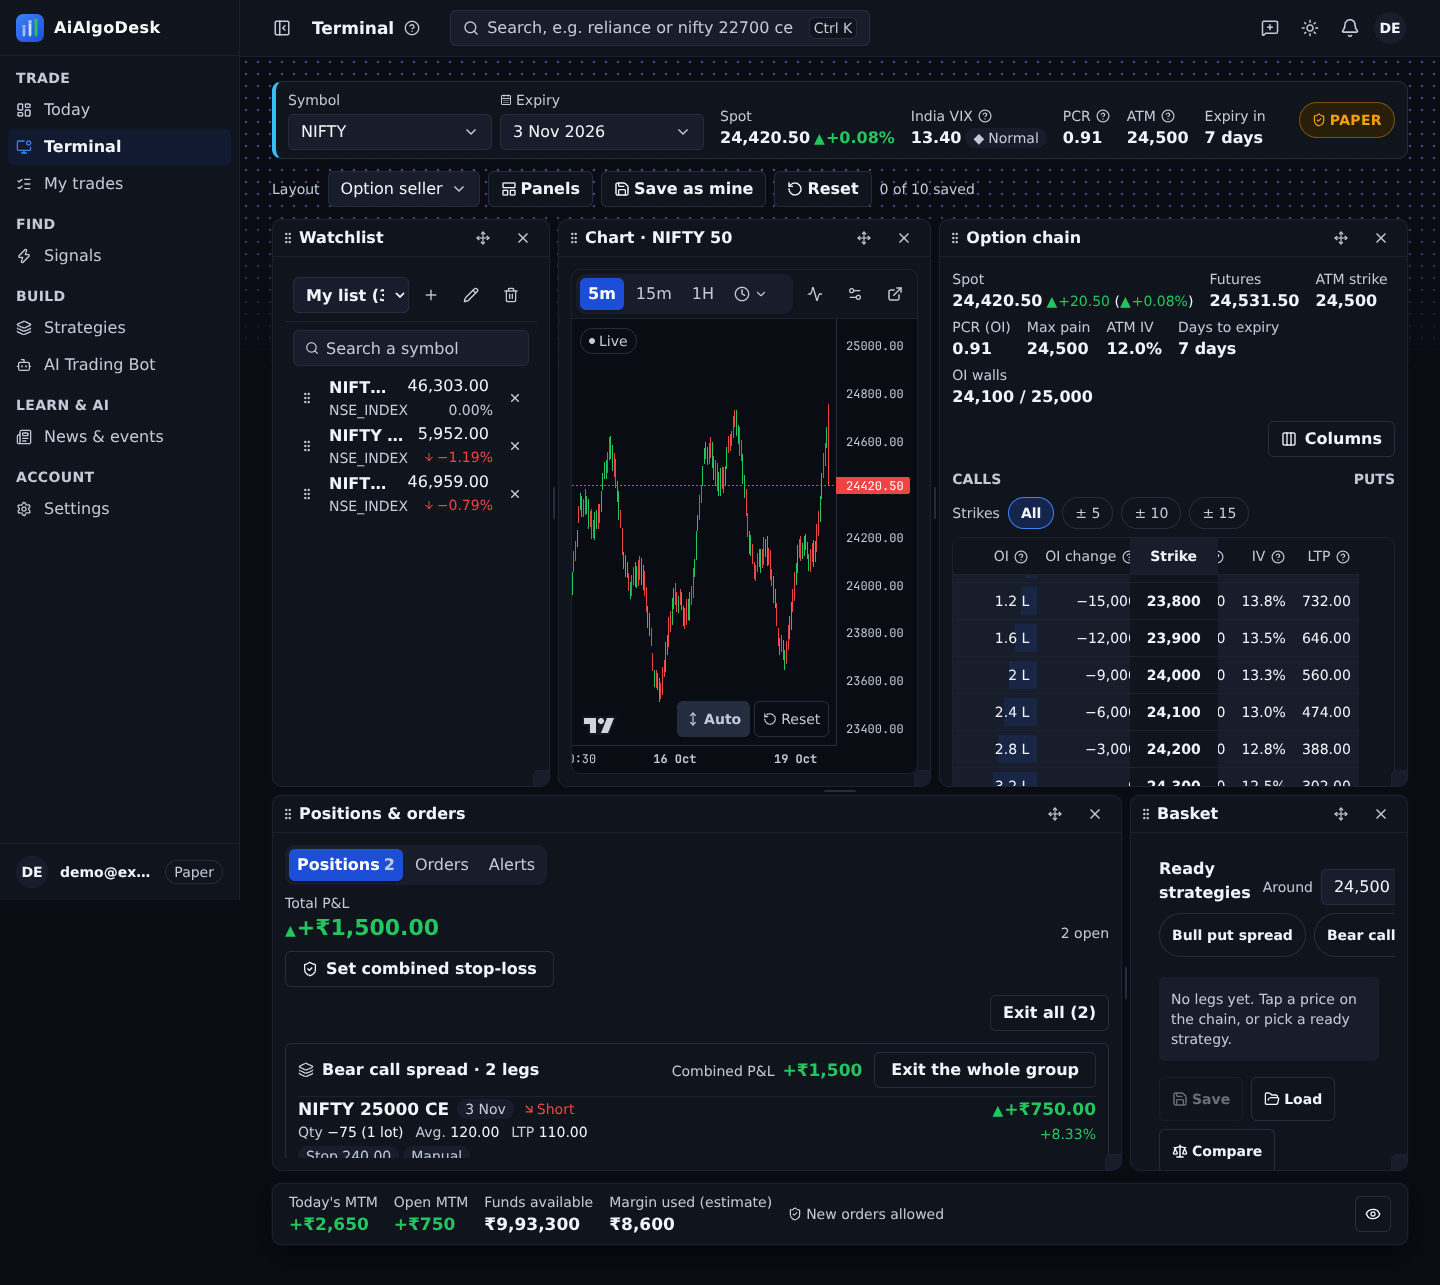
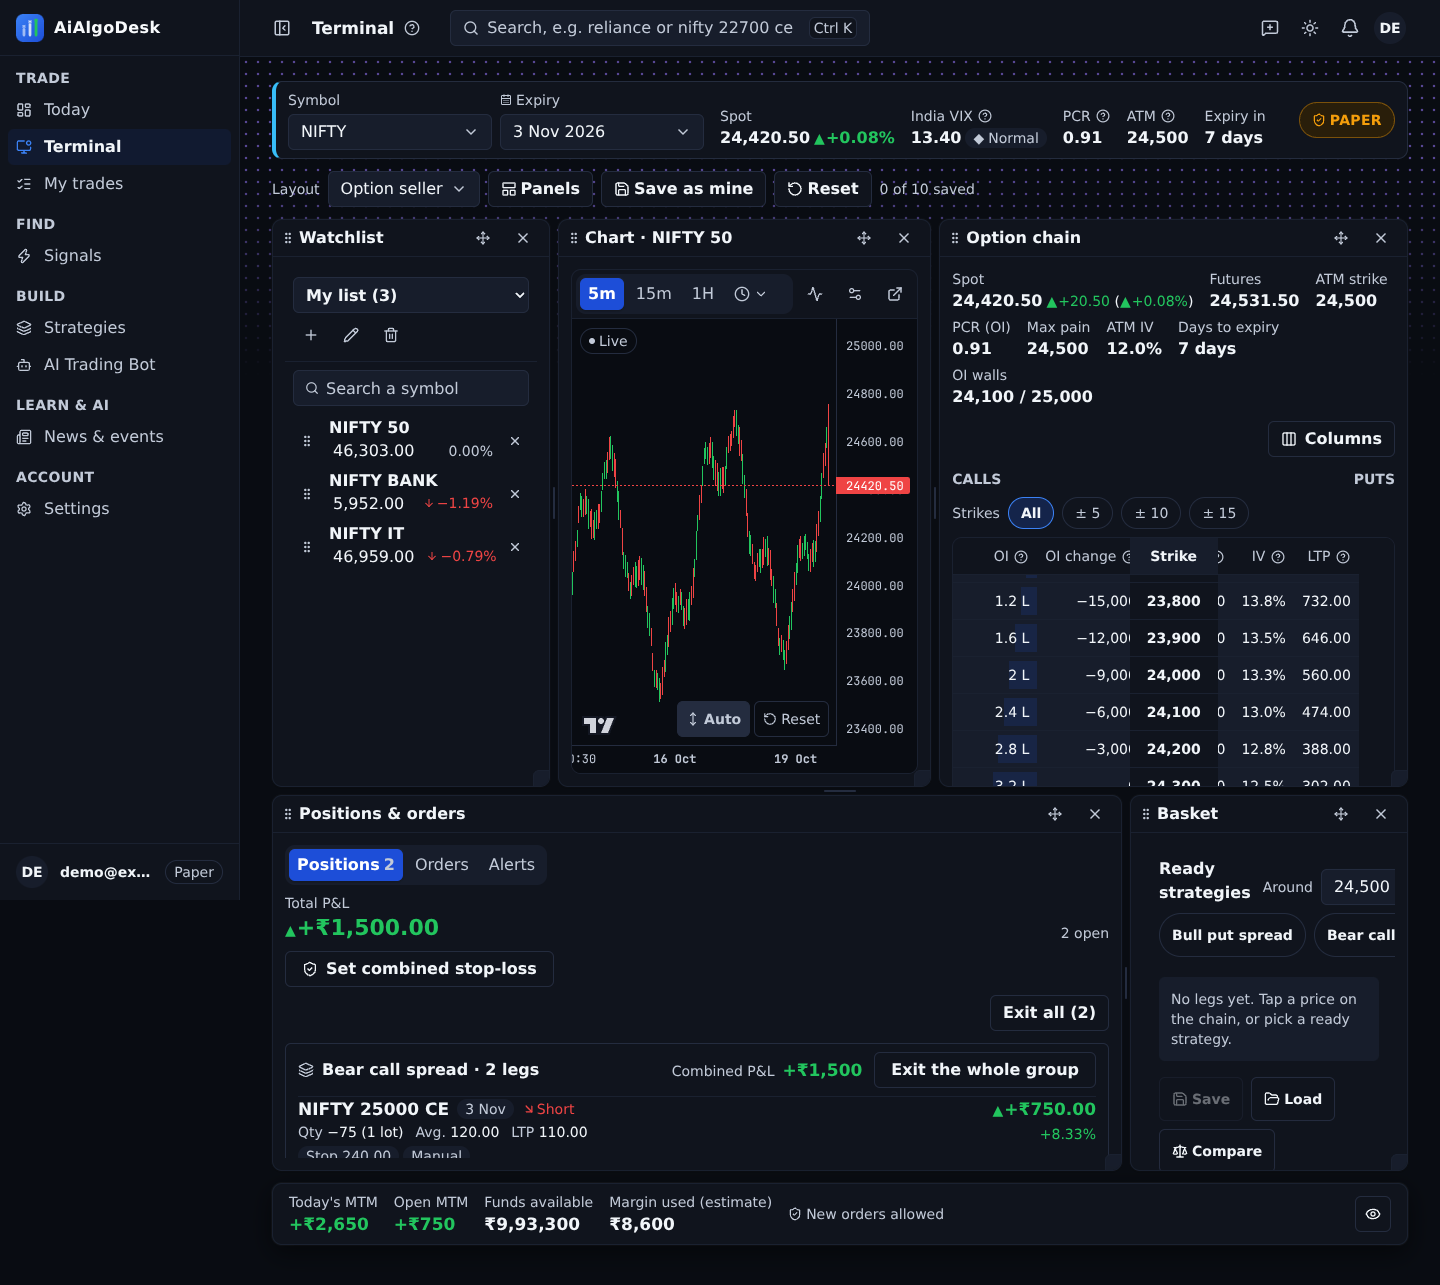
UX-2 PR 8 review: no cut-off names in the Terminal's narrow watchlist panel
What: WatchlistPanel gets an opt-in `narrow` prop (default off, so Charts and the Watchlist page are unchanged). In
narrow mode the list chooser takes the row's full width (its actions move to the line below) and wraps instead of
truncating; each row shows the full symbol on its own line (wrapped between words, never cut, no exchange line) with
the price and change on the line below - for the user's own lists and the system lists alike. The Terminal wrapper
turns it on for the desktop grid only (narrow={!touch}); the phone tab keeps the full-width rows and 44 px targets.

Why: at 1440 the 3-column docked panel cut "NIFT..." and "My list (:" (OWNER_RULES D.3, coordinator review).

Tests: vitest terminalWatchlist.test.tsx (narrow RowName: whole name, break-words, no truncate, no exchange; wiring;
Charts / Watchlist page do not pass it) - src/terminal, watchlist, chart, fno/contracts: 41 files / 533 passed. tsc
clean, eslint clean, build ok. Playwright terminal-v2 + watchlist-v2 + charts-v2 (CI=1, --retries=0): 126 passed,
5 skipped, 1 failed = the M58 title double-click restore test, which passes 6/6 run alone (timing under load). New
e2e assertions at 1440: names NIFTY 50 / NIFTY BANK / NIFTY IT each scrollWidth <= clientWidth, price lines present,
"My list (3)" measured to fit the chooser. after-1440-dark.png regenerated (after-390-dark.png unchanged).

Claude-Session: https://claude.ai/code/session_0111ZseAMRvkKNzt3WVC9Lph

Changed region(s): [[0.2188, 0.249, 0.3438, 0.4358], [0.3438, 0.2179, 0.375, 0.249]]

diff --git a/frontend/src/chart/WatchlistPanel.tsx b/frontend/src/chart/WatchlistPanel.tsx
@@ -57,6 +57,10 @@ export interface WatchlistPanelProps {
   touch?: boolean;
   /** TM Part 1 (flag `data_hub`): prices move with the live ticks of the user's own broker connection. */
   liveTicks?: boolean;
+  /** UX-3 (the Terminal's docked panel): a narrow column - the list chooser takes the full width with its actions below,
+   * and each row shows the full symbol on its own line with the price and change below it (no exchange line), so no
+   * name is cut. Charts and the Watchlist page leave it off (their layout is unchanged). */
+  narrow?: boolean;
   className?: string;
 }
 
@@ -147,7 +151,7 @@ function Change({ row }: { row: QuoteRow | undefined }) {
 
 /** FNO-4: a row's name and second line - a contract as traders write it ("NIFTY 28 OCT 22800 CE", "6 days left · OI
  * 12.5 L"), anything else as before (symbol, exchange). */
-export function RowName({ item, facts, q }: { item: WatchItem; facts: ContractFacts | undefined; q: QuoteRow | undefined }) {
+export function RowName({ item, facts, q, narrow = false }: { item: WatchItem; facts: ContractFacts | undefined; q: QuoteRow | undefined; narrow?: boolean }) {
   if (known(facts)) {
     return (
       <span className="min-w-0 flex-1 py-space-1" data-contract={facts.right}>
@@ -156,6 +160,8 @@ export function RowName({ item, facts, q }: { item: WatchItem; facts: ContractFa
       </span>
     );
   }
+  // UX-3 narrow: the whole symbol, wrapped between words if it must (never cut); the exchange line is left out.
+  if (narrow) return <span className="block min-w-0 break-words font-semibold leading-tight" data-row-name>{item.symbol}</span>;
   return (
     <span className="min-w-0 flex-1">
       <span className="block truncate font-semibold">{item.symbol}</span>
@@ -207,11 +213,11 @@ export function ExpiredRows({ rows, facts, listName, inList, onRoll, onRemove, i
   );
 }
 
-function Price({ q }: { q: QuoteRow | undefined }) {
+function Price({ q, inline = false }: { q: QuoteRow | undefined; inline?: boolean }) {
   // UX-7: a new price shows a short up / down tint.
   const flash = useTickFlash(q && !q.missing ? q.ltp : null);
   return (
-    <span className="text-right">
+    <span className={inline ? "flex items-baseline justify-between gap-space-2" : "text-right"} data-price-line={inline ? "" : undefined}>
       <span data-flash={flash ?? undefined} className={cx("block rounded-control px-space-1 tabular-nums transition-colors duration-base", flashClass(flash))}
         title={q?.missing ? q.error ?? undefined : undefined}>
         {q && !q.missing && q.ltp != null ? formatPrice(q.ltp) : EMPTY}
@@ -221,7 +227,7 @@ function Price({ q }: { q: QuoteRow | undefined }) {
   );
 }
 
-export function WatchlistPanel({ symbol, exchange, onOpen, listId, onListId, systemKey = null, onSystemKey, storageKey, onClose, touch = false, className, liveTicks = false }: WatchlistPanelProps) {
+export function WatchlistPanel({ symbol, exchange, onOpen, listId, onListId, systemKey = null, onSystemKey, storageKey, onClose, touch = false, className, liveTicks = false, narrow = false }: WatchlistPanelProps) {
   const store = useMemo(() => new WatchlistsStore(), []);
   const state = useSyncExternalStore(store.subscribe, store.getState);
   useEffect(() => { void store.load(); }, [store]);
@@ -361,13 +367,13 @@ export function WatchlistPanel({ symbol, exchange, onOpen, listId, onListId, sys
 
   return (
     <section aria-label="Watchlist" data-watchlist className={cx("flex min-h-0 flex-col text-t14 text-fg", className)}>
-      <div className="flex items-center gap-space-1 border-b border-subtle p-space-2">
+      <div className={cx("flex items-center gap-space-1 border-b border-subtle p-space-2", narrow && "flex-wrap")} data-narrow={narrow ? "" : undefined}>
         {hasSystem && !state.off ? (
           <>
             <button type="button" aria-expanded={browsing} aria-label={`Choose a list. Shown: ${currentName}`} onClick={openBrowser}
-              className={cx("flex h-11 min-w-0 flex-1 items-center gap-space-1 rounded-control border border-border bg-surface-2 px-space-2 text-left text-t14 font-semibold text-fg", !touch && "md:h-9", focus)}>
+              className={cx("flex h-11 min-w-0 flex-1 items-center gap-space-1 rounded-control border border-border bg-surface-2 px-space-2 text-left text-t14 font-semibold text-fg", !touch && "md:h-9", narrow && "basis-full", focus)}>
               {systemSummary && <Lock size={12} aria-hidden className="shrink-0 text-fg-muted" />}
-              <span className="min-w-0 flex-1 truncate">{currentName}{!namesCount(currentName) && <> <span className="font-normal text-fg-muted">({currentCount})</span></>}</span>
+              <span className={cx("min-w-0 flex-1", narrow ? "break-words" : "truncate")} data-list-name>{currentName}{!namesCount(currentName) && <> <span className="font-normal text-fg-muted">({currentCount})</span></>}</span>
               <ChevronDown size={14} aria-hidden className="shrink-0 text-fg-muted" />
             </button>
             <button type="button" aria-label="New list" title="New list" className={iconBtn} onClick={() => startNaming("new")}><Plus size={16} aria-hidden /></button>
@@ -378,7 +384,7 @@ export function WatchlistPanel({ symbol, exchange, onOpen, listId, onListId, sys
           <>
             <label className="sr-only" htmlFor="watchlist-pick">Watchlist</label>
             <select id="watchlist-pick" value={list?.id ?? ""} onChange={(e) => onListId(Number(e.target.value))}
-              className={cx("h-11 min-w-0 flex-1 rounded-control border border-border bg-surface-2 px-space-2 text-t14 font-semibold text-fg", !touch && "md:h-9", focus)}>
+              className={cx("h-11 min-w-0 flex-1 rounded-control border border-border bg-surface-2 px-space-2 text-t14 font-semibold text-fg", !touch && "md:h-9", narrow && "basis-full", focus)}>
               {state.lists.map((l) => <option key={l.id} value={l.id}>{l.name} ({l.items.length})</option>)}
             </select>
             <button type="button" aria-label="New list" title="New list" className={iconBtn} onClick={() => startNaming("new")}><Plus size={16} aria-hidden /></button>
@@ -440,7 +446,7 @@ export function WatchlistPanel({ symbol, exchange, onOpen, listId, onListId, sys
         <SystemListView summary={systemSummary} list={sys.list} rows={systemRows} total={systemList?.items.length ?? systemSummary.count} matching={matching.length}
           query={rowQuery} onQuery={setRowQuery} sort={sort} onSort={setSort} quotes={priced} quotesFailed={quotes.failed}
           current={(i) => i.symbol === symbol && i.exchange === exchange} onOpen={onOpen} onCopy={() => void copyList()} copying={copying}
-          onRetry={() => sys.retry(systemSummary.key)} touch={touch} field={field} textBtn={textBtn} />
+          onRetry={() => sys.retry(systemSummary.key)} touch={touch} field={field} textBtn={textBtn} narrow={narrow} />
       )}
 
       {list && !state.off && !browsing && (
@@ -466,9 +472,10 @@ export function WatchlistPanel({ symbol, exchange, onOpen, listId, onListId, sys
                       <GripVertical size={14} aria-hidden />
                     </button>
                     <button type="button" aria-current={current ? "true" : undefined} onClick={() => onOpen(item)}
-                      className={cx("flex min-w-0 flex-1 items-center gap-space-2 rounded-control px-space-1 text-left hover:bg-surface-2", touch ? "min-h-11" : "min-h-11 md:min-h-9", focus)}>
-                      <RowName item={item} facts={facts.get(itemKey(item))} q={q} />
-                      <Price q={q} />
+                      className={cx("flex min-w-0 flex-1 rounded-control px-space-1 text-left hover:bg-surface-2", touch ? "min-h-11" : "min-h-11 md:min-h-9",
+                        narrow ? "flex-col justify-center gap-px py-space-1" : "items-center gap-space-2", focus)}>
+                      <RowName item={item} facts={facts.get(itemKey(item))} q={q} narrow={narrow} />
+                      <Price q={q} inline={narrow} />
                     </button>
                     <button type="button" aria-label={`Remove ${item.symbol}`} title="Remove from this list" className={iconBtn}
                       onClick={() => void store.edit(list.id, { kind: "remove", item })}>
@@ -514,12 +521,14 @@ export interface SystemListViewProps {
   touch: boolean;
   field: string;
   textBtn: string;
+  /** UX-3: the Terminal's narrow column (see WatchlistPanelProps.narrow). */
+  narrow?: boolean;
 }
 
 /** WL1: one read-only system list - "read-only" and "Copy to my list" on top, a search and a sort, then the rows (no
  * handle, no remove: the list is the exchange's, rebuilt by the server). */
 export function SystemListView({ summary, list, rows, total, matching, query, onQuery, sort, onSort, quotes, quotesFailed, current, onOpen, onCopy,
-  copying, onRetry, touch, field, textBtn }: SystemListViewProps) {
+  copying, onRetry, touch, field, textBtn, narrow = false }: SystemListViewProps) {
   return (
     <div data-system-list={summary.key} className="flex min-h-0 flex-1 flex-col">
       <div className="flex flex-wrap items-center gap-space-2 border-b border-subtle px-space-3 py-space-2">
@@ -559,12 +568,15 @@ export function SystemListView({ summary, list, rows, total, matching, query, on
             return (
               <li key={itemKey(item)} data-row className={cx("flex items-center rounded-control", on && "bg-surface-2")}>
                 <button type="button" aria-current={on ? "true" : undefined} onClick={() => onOpen({ symbol: item.symbol, exchange: item.exchange })}
-                  className={cx("flex min-w-0 flex-1 items-center gap-space-2 rounded-control px-space-2 text-left hover:bg-surface-2", touch ? "min-h-11" : "min-h-11 md:min-h-9", focus)}>
-                  <span className="min-w-0 flex-1">
-                    <span className="block truncate font-semibold">{item.symbol}</span>
-                    <span className="block truncate text-t12 text-fg-muted">{item.name ? `${item.exchange} · ${item.name}` : item.exchange}</span>
-                  </span>
-                  <Price q={q} />
+                  className={cx("flex min-w-0 flex-1 rounded-control px-space-2 text-left hover:bg-surface-2", touch ? "min-h-11" : "min-h-11 md:min-h-9",
+                    narrow ? "flex-col justify-center gap-px py-space-1" : "items-center gap-space-2", focus)}>
+                  {narrow ? <span className="block min-w-0 break-words font-semibold leading-tight" data-row-name>{item.symbol}</span> : (
+                    <span className="min-w-0 flex-1">
+                      <span className="block truncate font-semibold">{item.symbol}</span>
+                      <span className="block truncate text-t12 text-fg-muted">{item.name ? `${item.exchange} · ${item.name}` : item.exchange}</span>
+                    </span>
+                  )}
+                  <Price q={q} inline={narrow} />
                 </button>
               </li>
             );

diff --git a/frontend/src/terminal/terminalWatchlist.test.tsx b/frontend/src/terminal/terminalWatchlist.test.tsx
@@ -8,6 +8,10 @@ import { markedItem, watchlistTarget } from "./TerminalWatchlistV2";
 import pageSource from "./TerminalPageV2.tsx?raw";
 import classicSource from "./TerminalClassicV2.tsx?raw";
 import panelSource from "./TerminalWatchlistV2.tsx?raw";
+import sharedSource from "../chart/WatchlistPanel.tsx?raw";
+import chartsSource from "../chart/ChartsPageV2.tsx?raw";
+import pageWatchSource from "../watchlist/WatchlistPageV2.tsx?raw";
+import { RowName } from "../chart/WatchlistPanel";
 
 /** UX-3 + TA-4 (UX2 plan PR 8): the watchlist as a Terminal panel, docked left in every preset. */
 const open = (panels: readonly PanelPlace[]) => panels.filter((p) => p.open);
@@ -113,5 +117,25 @@ describe("UX-3 on a phone: a Watchlist tab first, only with the flag", () => {
     const off = renderToStaticMarkup(<PhoneTabsV2 tab="chart" onTab={() => undefined} />);
     expect(off.match(/role="tab"/g)).toHaveLength(5);
     expect(off).not.toContain("terminal-tab-watchlist");
+  });
+});
+
+describe("UX-3: the narrow panel never cuts a name (OWNER_RULES D.3)", () => {
+  it("a row's name is the whole symbol on its own line, no exchange line, wrapped never truncated", () => {
+    const html = renderToStaticMarkup(<RowName item={{ symbol: "NIFTY FIN SERVICE", exchange: "NSE_INDEX" }} facts={undefined} q={undefined} narrow />);
+    expect(html).toContain("NIFTY FIN SERVICE");
+    expect(html).toContain("break-words");
+    expect(html).not.toContain("truncate");
+    expect(html).not.toContain("NSE_INDEX");
+    const wide = renderToStaticMarkup(<RowName item={{ symbol: "NIFTY BANK", exchange: "NSE_INDEX" }} facts={undefined} q={undefined} />);
+    expect(wide).toContain("NSE_INDEX");                                           // Charts / Watchlist page: as before
+  });
+
+  it("the Terminal asks for the narrow layout on the desktop grid only (the phone tab keeps the full-width rows)", () => {
+    expect(panelSource).toMatch(/touch=\{touch\} narrow=\{!touch\}/);
+    expect(sharedSource).toMatch(/narrow && "basis-full"/);                         // the list chooser takes the full width
+    expect(sharedSource).toMatch(/narrow \? "break-words" : "truncate"/);
+    expect(chartsSource).not.toMatch(/narrow=/);                                    // Charts lays the panel out as before
+    expect(pageWatchSource).not.toMatch(/narrow=/);
   });
 });

diff --git a/frontend/e2e/terminal-v2.e2e.ts b/frontend/e2e/terminal-v2.e2e.ts
@@ -938,6 +938,26 @@ test.describe("v2 terminal 1440: the watchlist panel (UX-3 + TA-4)", () => {
       const chain = page.locator("[data-panel='chain']");
       for (const col of ["call-oi_change", "call-iv", "put-iv"]) await expect(chain.locator(`[data-col='${col}']`).first()).toBeVisible();   // T1-3
       await expect(page.locator("[data-panel='watchlist'] [data-row]")).toHaveCount(3);
+      // OWNER_RULES D.3: no cut-off text in the narrow panel - each name whole on its own line, the list chooser in full.
+      const names = page.locator("[data-panel='watchlist'] [data-row] [data-row-name]");
+      await expect(names).toHaveText(["NIFTY 50", "NIFTY BANK", "NIFTY IT"]);
+      for (const el of await names.all()) {
+        const m = await el.evaluate((n) => ({ sw: n.scrollWidth, cw: n.clientWidth }));
+        expect(m.sw).toBeLessThanOrEqual(m.cw);
+      }
+      await expect(page.locator("[data-panel='watchlist'] [data-row] [data-price-line]")).toHaveCount(3);
+      const picker = page.locator("[data-panel='watchlist'] #watchlist-pick");
+      await expect(picker.locator("option:checked")).toHaveText("My list (3)");
+      const fits = await picker.evaluate((sel) => {
+        const s = sel as HTMLSelectElement;
+        const c = document.createElement("canvas").getContext("2d")!;
+        const st = getComputedStyle(s);
+        c.font = `${st.fontWeight} ${st.fontSize} ${st.fontFamily}`;
+        const text = c.measureText(s.options[s.selectedIndex].text).width;
+        const room = s.clientWidth - parseFloat(st.paddingLeft) - parseFloat(st.paddingRight) - 24;   // 24: the arrow
+        return text <= room;
+      });
+      expect(fits).toBe(true);
       await noSidewaysScroll(page);
       await shot(page, `ux2-pr8-1440-${theme}`);
     });

diff --git a/frontend/src/terminal/TerminalWatchlistV2.tsx b/frontend/src/terminal/TerminalWatchlistV2.tsx
@@ -63,7 +63,7 @@ export function TerminalWatchlistV2({ underlying, spotSymbol, onUnderlying, touc
     <div data-panel-body="watchlist" className="flex h-full min-h-0 flex-col">
       <WatchlistPanel symbol={mark.symbol} exchange={mark.exchange} onOpen={open} listId={view.watchlist_id} onListId={(id) => keep({ watchlist_id: id })}
         systemKey={view.watchlist_system} onSystemKey={(key) => keep({ watchlist_system: key })}
-        storageKey={recentKeyFor(userId)} touch={touch} className="flex-1" liveTicks={liveTicks} />
+        storageKey={recentKeyFor(userId)} touch={touch} narrow={!touch} className="flex-1" liveTicks={liveTicks} />
     </div>
   );
 }
